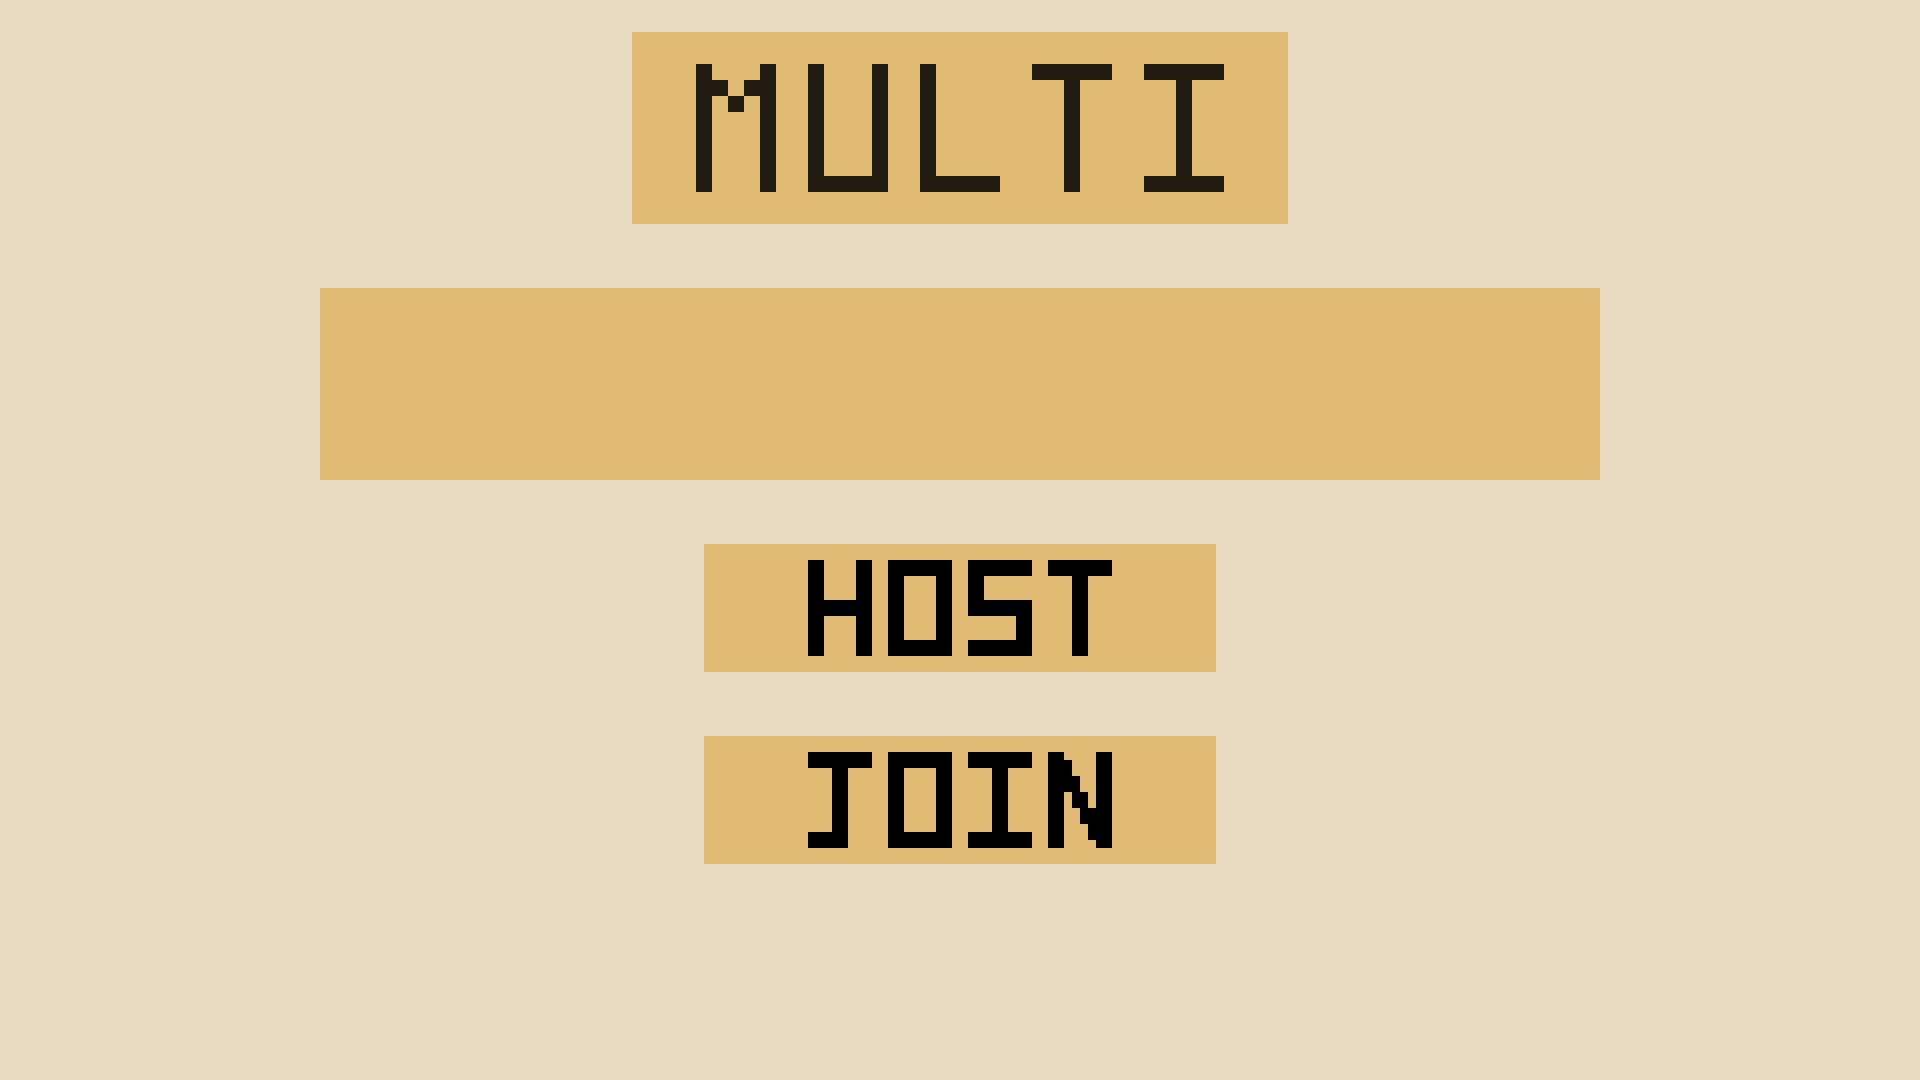
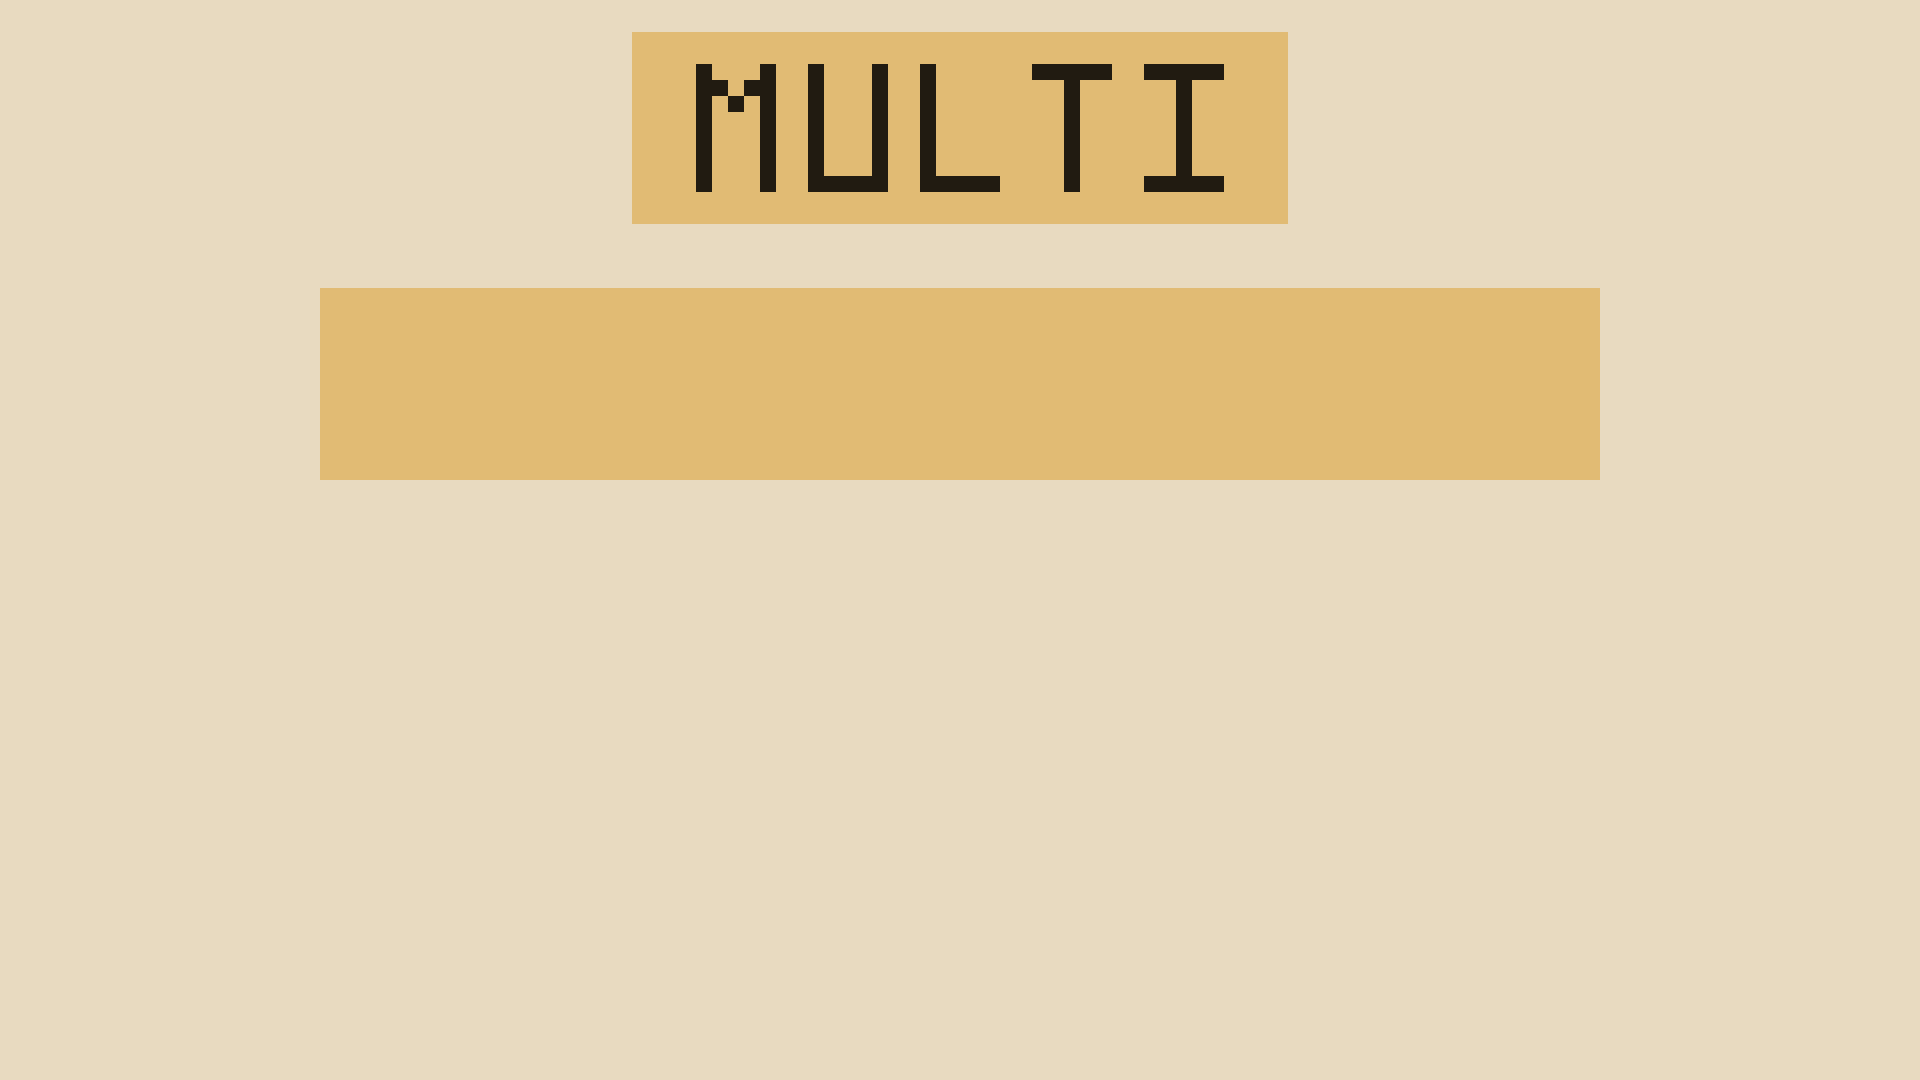
new scene ip enter segv

Changed region(s): [[0.3438, 0.6722, 0.6562, 0.825], [0.3438, 0.4889, 0.6562, 0.6417]]

diff --git a/src/create/create.c b/src/create/create.c
@@ -43,7 +43,7 @@ static void get_func_ptr_and_game_object(scene_t **scenes, size_t i)
     background_t **(*background_func_ptr[])(void) = {&start_menu_background,
     &save_background, &game_background, &fight_background, &new_background,
     &pause_background, &help_background, &inventory_and_status_background,
-    &save_multi_background, &multi_background, &multi_background};
+    &save_multi_background, &multi_background, &ip_background};
 
     scenes[i]->func_ptr = scene_func_ptr[i];
     scenes[i]->buttons = button_func_ptr[i]();

diff --git a/src/create_backgrounds/multi_background.c b/src/create_backgrounds/multi_background.c
@@ -16,3 +16,13 @@ background_t **multi_background(void)
     backgrounds[1] = NULL;
     return backgrounds;
 }
+
+background_t **ip_background(void)
+{
+    background_t **backgrounds = malloc(sizeof(background_t *) * 2);
+
+    backgrounds[0] = create_background("image/background/multi_bg.png",
+    (sfVector2f){0, 0}, NULL);
+    backgrounds[1] = NULL;
+    return backgrounds;
+}

diff --git a/src/create_buttons/multi_button.c b/src/create_buttons/multi_button.c
@@ -18,7 +18,7 @@ button_t **multi_button(void)
     buttons[0] = create_button(host_pathnames,
     (sfVector2f){320, 320}, &launch_serv);
     buttons[1] = create_button(join_pathnames,
-    (sfVector2f){1050, 320}, NULL);
+    (sfVector2f){1050, 320}, &play_multi_id_callback);
     buttons[2] = NULL;
     return buttons;
 }

diff --git a/include/rpg.h b/include/rpg.h
@@ -52,6 +52,7 @@ background_t **help_background(void);
 background_t **inventory_and_status_background(void);
 background_t **save_multi_background(void);
 background_t **multi_background(void);
+background_t **ip_background(void);
 
 /* PLAYER */
 player_t **start_menu_player(void);
